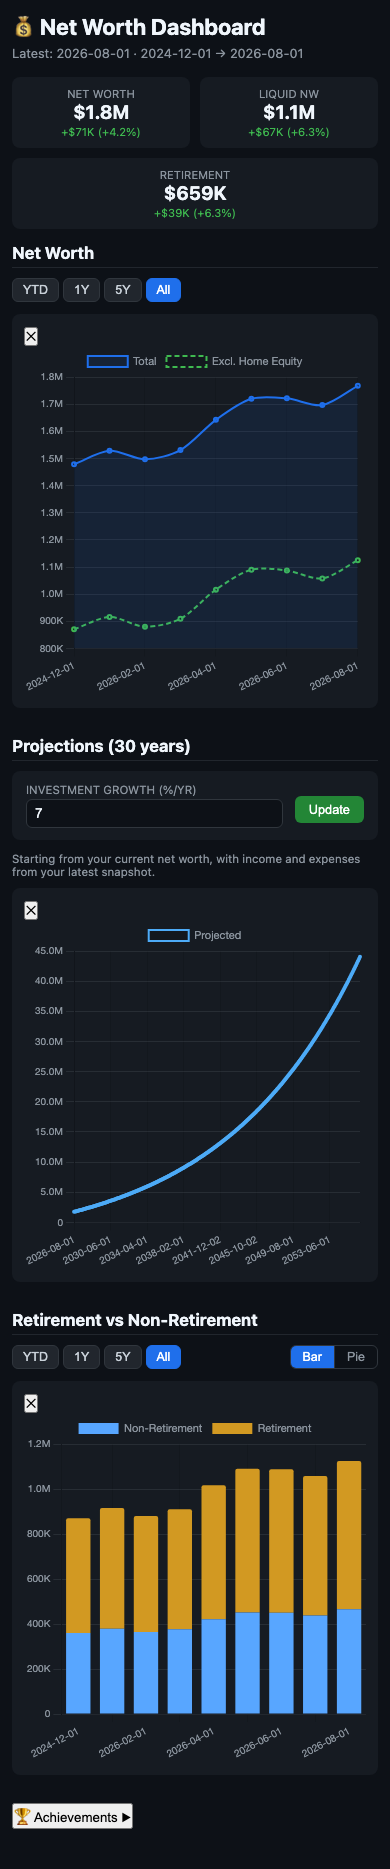
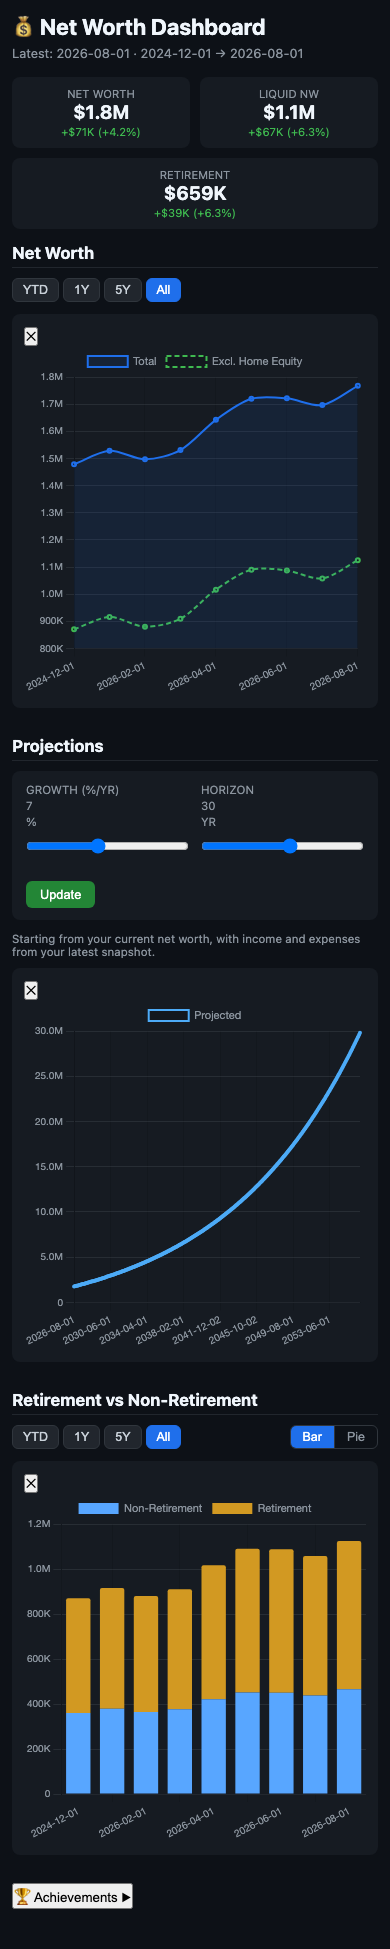
feat: projection sliders (growth 1-15%, horizon 5-50yr), tax-adjusted savings (35% CA+federal), update button triggers recalculation

diff --git a/docs/index.html b/docs/index.html
@@ -144,9 +144,10 @@
   </div>
 
   <div class="section" id="projectionSection">
-    <h2>Projections (30 years)</h2>
+    <h2>Projections</h2>
     <div class="proj-controls" id="projControls">
-      <label>Investment growth (%/yr) <input type="number" id="projGrowth" value="7" step="0.5" min="0" max="30"></label>
+      <label>Growth (%/yr) <span id="projGrowthVal">7</span>% <input type="range" id="projGrowth" min="1" max="15" step="0.5" value="7" oninput="document.getElementById('projGrowthVal').textContent=this.value"></label>
+      <label>Horizon <span id="projHorizonVal">30</span>yr <input type="range" id="projHorizon" min="5" max="50" step="5" value="30" oninput="document.getElementById('projHorizonVal').textContent=this.value"></label>
       <button onclick="recalcProjections()">Update</button>
     </div>
     <div style="font-size:0.72rem;color:#8b949e;margin-bottom:10px;">
@@ -176,7 +177,7 @@
 </div>
 
 <script>
[2 lines of base64/hex data omitted]
 Chart.register(ChartDataLabels);
 
 function sha256(str) {
@@ -369,36 +370,30 @@ function destroyAllCharts() {
 
 // --- Projection engine ---
 let projCache = null;
-function calcProjections(expenses, income, growthPct) {
+function calcProjections(expenses, income, growthPct, horizonYears) {
   const s = DATA.series;
   const lastIdx = s.dates.length - 1;
   const totalNW = s.net_worth_total[lastIdx];
-  const horizonMonths = 30 * 12;
+  const horizonMonths = horizonYears * 12;
   const r = growthPct / 100, monthlyR = r / 12;
-  const netSavings = Math.max(0, (income - expenses) / 12);
+  // Tax-adjusted: assume ~35% effective CA+federal rate
+  const netSavings = Math.max(0, (income * 0.65 - expenses) / 12);
   const median = [];
   let nw = totalNW;
   for (let m = 0; m <= horizonMonths; m++) { median.push(Math.round(nw)); nw = nw * (1 + monthlyR) + netSavings; }
-  const upper = [], lower = [];
-  for (let m = 0; m <= horizonMonths; m++) {
-    const t = m / 12;
-    const sigma = totalNW * 0.15 * Math.sqrt(t);
-    const band = 1.28 * sigma;
-    lower.push(Math.round(Math.max(0, median[m] - band)));
-    upper.push(Math.round(median[m] + band));
-  }
   const lastDate = new Date(s.dates[lastIdx]);
   const projDates = [];
   for (let m = 0; m <= horizonMonths; m++) { const d = new Date(lastDate); d.setMonth(d.getMonth()+m); projDates.push(d.toISOString().slice(0,10)); }
-  return { projDates, median, lower, upper };
+  return { projDates, median };
 }
 
 function recalcProjections() {
   const growth = parseFloat(document.getElementById('projGrowth').value) || 7;
+  const horizon = parseInt(document.getElementById('projHorizon').value) || 30;
   const c = DATA.current || {};
-  const expenses = c.expenses || 96000;
-  const income = c.income || 200000;
-  projCache = calcProjections(expenses, income, growth);
+  const expenses = c.expenses || 108000;
+  const income = c.income || 400000;
+  projCache = calcProjections(expenses, income, growth, horizon);
   drawProjectionsFn();
   buildAchievementPanel();
 }
@@ -524,6 +519,9 @@ function initDashboard() {
   makeTFBar('timeframeBarNW', 'nw', TF_MAIN, drawNW);
   drawNW();
   document.getElementById('projGrowth').value = '7';
+  document.getElementById('projGrowthVal').textContent = '7';
+  document.getElementById('projHorizon').value = '30';
+  document.getElementById('projHorizonVal').textContent = '30';
   recalcProjections();
   makeTFBar('timeframeBarStacked', 'stacked', TF_MAIN, drawStackedOrPie);
   drawStackedOrPie();

diff --git a/templates/index.html b/templates/index.html
@@ -144,9 +144,10 @@
   </div>
 
   <div class="section" id="projectionSection">
-    <h2>Projections (30 years)</h2>
+    <h2>Projections</h2>
     <div class="proj-controls" id="projControls">
-      <label>Investment growth (%/yr) <input type="number" id="projGrowth" value="7" step="0.5" min="0" max="30"></label>
+      <label>Growth (%/yr) <span id="projGrowthVal">7</span>% <input type="range" id="projGrowth" min="1" max="15" step="0.5" value="7" oninput="document.getElementById('projGrowthVal').textContent=this.value"></label>
+      <label>Horizon <span id="projHorizonVal">30</span>yr <input type="range" id="projHorizon" min="5" max="50" step="5" value="30" oninput="document.getElementById('projHorizonVal').textContent=this.value"></label>
       <button onclick="recalcProjections()">Update</button>
     </div>
     <div style="font-size:0.72rem;color:#8b949e;margin-bottom:10px;">
@@ -369,36 +370,30 @@ function destroyAllCharts() {
 
 // --- Projection engine ---
 let projCache = null;
-function calcProjections(expenses, income, growthPct) {
+function calcProjections(expenses, income, growthPct, horizonYears) {
   const s = DATA.series;
   const lastIdx = s.dates.length - 1;
   const totalNW = s.net_worth_total[lastIdx];
-  const horizonMonths = 30 * 12;
+  const horizonMonths = horizonYears * 12;
   const r = growthPct / 100, monthlyR = r / 12;
-  const netSavings = Math.max(0, (income - expenses) / 12);
+  // Tax-adjusted: assume ~35% effective CA+federal rate
+  const netSavings = Math.max(0, (income * 0.65 - expenses) / 12);
   const median = [];
   let nw = totalNW;
   for (let m = 0; m <= horizonMonths; m++) { median.push(Math.round(nw)); nw = nw * (1 + monthlyR) + netSavings; }
-  const upper = [], lower = [];
-  for (let m = 0; m <= horizonMonths; m++) {
-    const t = m / 12;
-    const sigma = totalNW * 0.15 * Math.sqrt(t);
-    const band = 1.28 * sigma;
-    lower.push(Math.round(Math.max(0, median[m] - band)));
-    upper.push(Math.round(median[m] + band));
-  }
   const lastDate = new Date(s.dates[lastIdx]);
   const projDates = [];
   for (let m = 0; m <= horizonMonths; m++) { const d = new Date(lastDate); d.setMonth(d.getMonth()+m); projDates.push(d.toISOString().slice(0,10)); }
-  return { projDates, median, lower, upper };
+  return { projDates, median };
 }
 
 function recalcProjections() {
   const growth = parseFloat(document.getElementById('projGrowth').value) || 7;
+  const horizon = parseInt(document.getElementById('projHorizon').value) || 30;
   const c = DATA.current || {};
-  const expenses = c.expenses || 96000;
-  const income = c.income || 200000;
-  projCache = calcProjections(expenses, income, growth);
+  const expenses = c.expenses || 108000;
+  const income = c.income || 400000;
+  projCache = calcProjections(expenses, income, growth, horizon);
   drawProjectionsFn();
   buildAchievementPanel();
 }
@@ -524,6 +519,9 @@ function initDashboard() {
   makeTFBar('timeframeBarNW', 'nw', TF_MAIN, drawNW);
   drawNW();
   document.getElementById('projGrowth').value = '7';
+  document.getElementById('projGrowthVal').textContent = '7';
+  document.getElementById('projHorizon').value = '30';
+  document.getElementById('projHorizonVal').textContent = '30';
   recalcProjections();
   makeTFBar('timeframeBarStacked', 'stacked', TF_MAIN, drawStackedOrPie);
   drawStackedOrPie();
